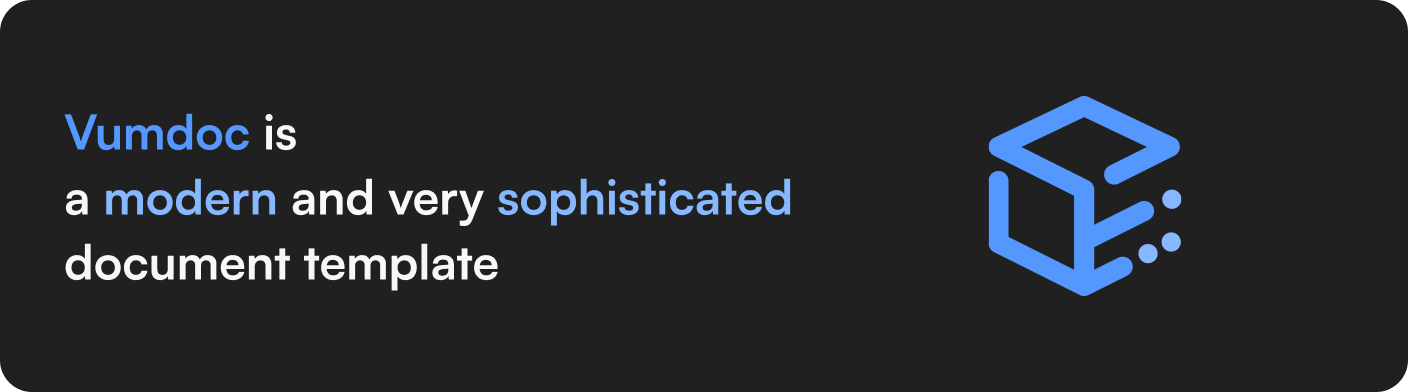
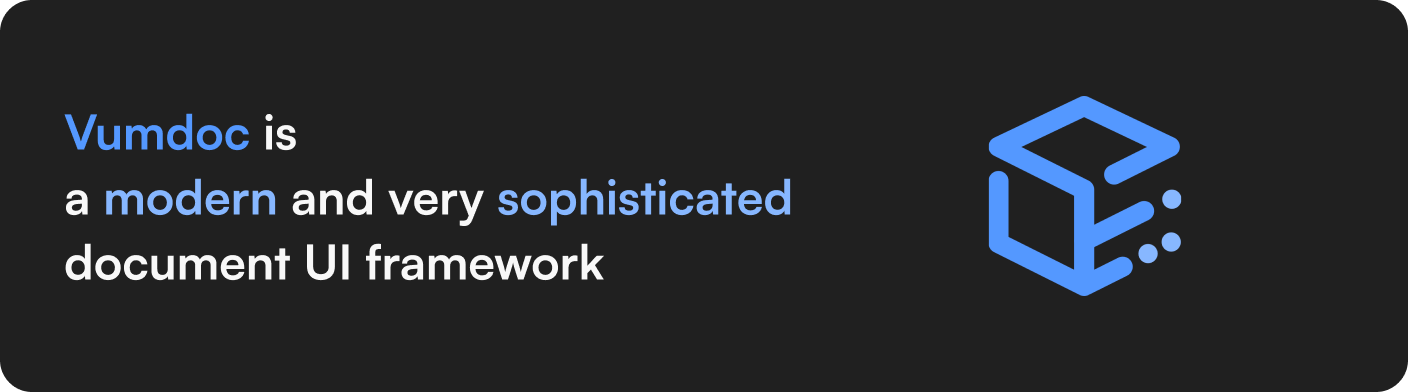
update: typo

Changed region(s): [[0.2188, 0.6122, 0.4375, 0.7347]]

diff --git a/profile/README.md b/profile/README.md
@@ -4,4 +4,4 @@
 We are looking for contributors!
 
 ### What kind of organization?
-An OSS implementation of a document UI template framework for the purpose of *modern and very sophisticated document ui template* 
+An OSS implementation of a document UI template framework for the purpose of *modern and very sophisticated document ui framework* 
